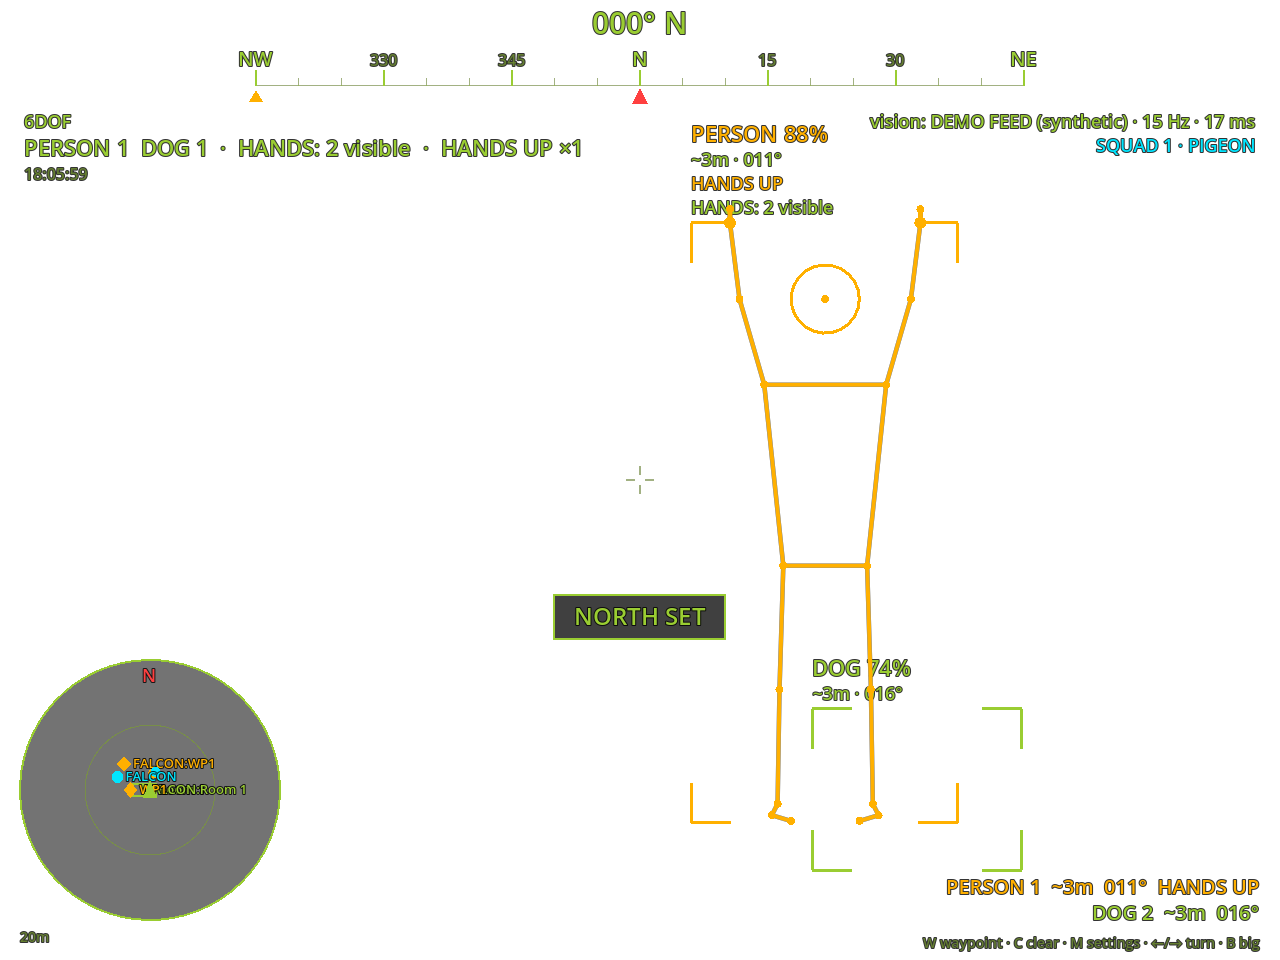
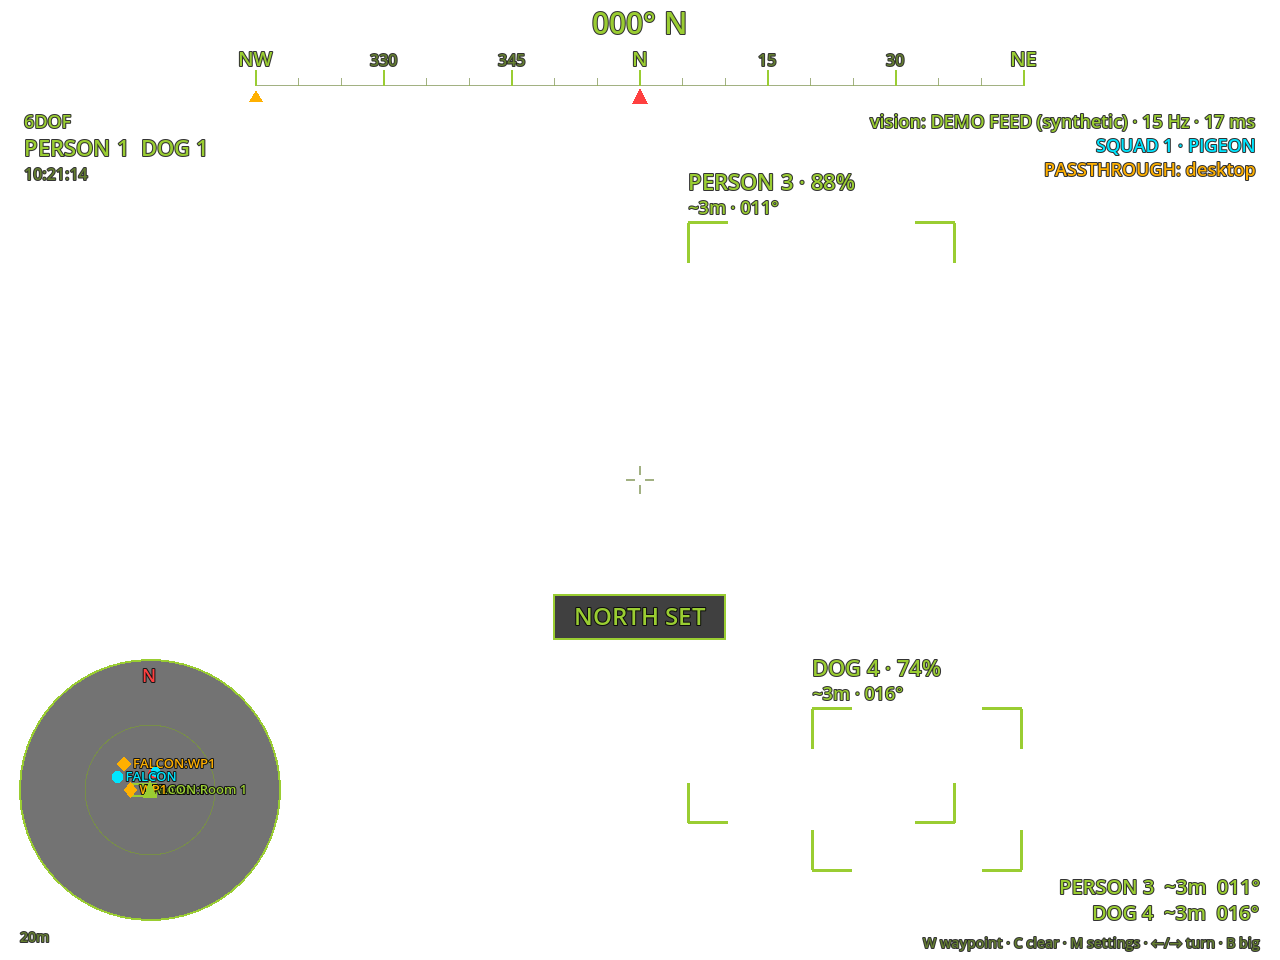
v0.1.1: fix black view (Meta passthrough), boxes-only, stable track IDs, camera permission retry

diff --git a/android-plugin/pigeonvision/src/main/java/com/govconnew/pigeonvision/PigeonVision.kt b/android-plugin/pigeonvision/src/main/java/com/govconnew/pigeonvision/PigeonVision.kt
@@ -55,6 +55,7 @@ class PigeonVision(godot: Godot) : GodotPlugin(godot) {
     private var camW = 640; private var camH = 480
     private var bmp: Bitmap? = null
     private var px: IntArray? = null
+    private var frames = 0L
 
     override fun getPluginName() = "PigeonVision"
     override fun getPluginSignals(): Set<SignalInfo> = setOf(
@@ -87,14 +88,24 @@ class PigeonVision(godot: Godot) : GodotPlugin(godot) {
         return arr.toString()
     }
 
+    private var asked = false
     @UsedByGodot fun start(): Boolean {
         val a = activity ?: return false
-        if (!hasPermission()) { setStatus("NO CAMERA PERMISSION"); requestPermission(); return false }
-        if (thread != null) return true
+        if (!hasPermission()) {
+            setStatus("waiting for camera permission")
+            if (!asked) { asked = true; a.runOnUiThread { requestPermission() } }
+            return false
+        }
+        if (thread != null) { if (status.startsWith("RUNNING") || status.startsWith("opening") || status == "loading models") return true; stop() }
         thread = HandlerThread("pigeonvision").also { it.start() }
         handler = Handler(thread!!.looper)
         handler!!.post { try { open(a) } catch (e: Throwable) { setStatus("CAMERA ERROR: ${e.message}") } }
         return true
+    }
+
+    override fun onMainRequestPermissionsResult(requestCode: Int, permissions: Array<String>?, grantResults: IntArray?) {
+        super.onMainRequestPermissionsResult(requestCode, permissions, grantResults)
+        if (hasPermission()) start() else setStatus("CAMERA PERMISSION DENIED — Settings › Privacy › App permissions")
     }
 
     @UsedByGodot fun stop() {
@@ -141,6 +152,7 @@ class PigeonVision(godot: Godot) : GodotPlugin(godot) {
         reader = ImageReader.newInstance(camW, camH, ImageFormat.YUV_420_888, 2).also { r ->
             r.setOnImageAvailableListener({ onImage(it) }, handler)
         }
+        setStatus("opening camera $pick")
         cm.openCamera(pick, object : CameraDevice.StateCallback() {
             override fun onOpened(d: CameraDevice) {
                 device = d
@@ -154,8 +166,8 @@ class PigeonVision(godot: Godot) : GodotPlugin(godot) {
                     override fun onConfigureFailed(s: CameraCaptureSession) { setStatus("CAMERA SESSION FAILED") }
                 }, handler)
             }
-            override fun onDisconnected(d: CameraDevice) { d.close(); setStatus("camera disconnected") }
-            override fun onError(d: CameraDevice, e: Int) { d.close(); setStatus("CAMERA ERROR $e") }
+            override fun onDisconnected(d: CameraDevice) { d.close(); device = null; setStatus("camera disconnected (retrying)") }
+            override fun onError(d: CameraDevice, e: Int) { d.close(); device = null; setStatus("CAMERA ERROR $e (retrying)") }
         }, handler)
     }
 
@@ -191,6 +203,7 @@ class PigeonVision(godot: Godot) : GodotPlugin(godot) {
                 }
             }
             out.put("poses", poses).put("ms", SystemClock.uptimeMillis() - t0)
+            frames++
             emitSignal("vision_result", out.toString())
         } catch (e: Throwable) {
             Log.e(TAG, "frame", e); runCatching { img.close() }

diff --git a/README.md b/README.md
@@ -78,3 +78,10 @@ To run the tests: `godot --headless --xr-mode off --path godot -s tests/run_test
 - Godot OpenXR Vendors plugin (MIT)
 - MediaPipe Tasks and models EfficientDet-Lite0 / Pose Landmarker lite (Apache-2.0)
 - three.js (MIT)
+
+## v0.1.1 (headset fix)
+- Fixed black view: enabled `xr/openxr/extensions/meta/passthrough` + alpha-blend environment mode; runtime falls back to the FB passthrough extension. HUD shows a `PASSTHROUGH ON/…` status line.
+- Boxes only (people + pets: dog, cat, horse, sheep, cow, bird, bear). Skeleton / hands readouts removed for this build.
+- Stable tracking IDs: constant-velocity tracker with IoU + centre-distance matching, 1.2 s miss tolerance, head-rotation compensation.
+- Camera plugin: starts automatically after the permission dialog, retries after camera errors, clearer status line.
+- Install: `adb uninstall com.govconnew.pigeoneyequest` (optional) then `adb install -r pigeon-eye-quest-0.1.1.apk`. Needs Horizon OS v74+ for the passthrough camera API.
